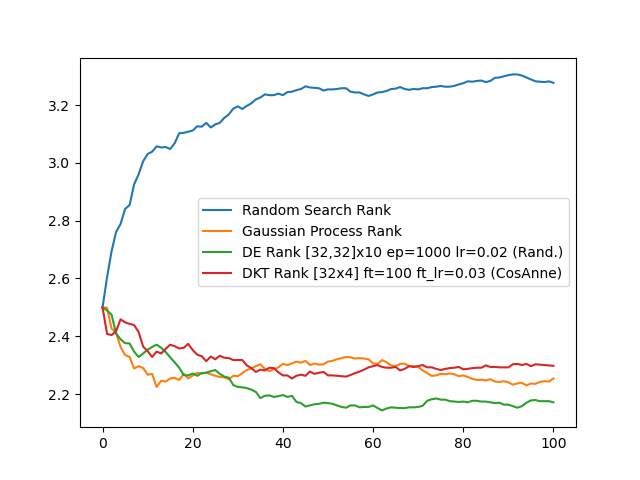
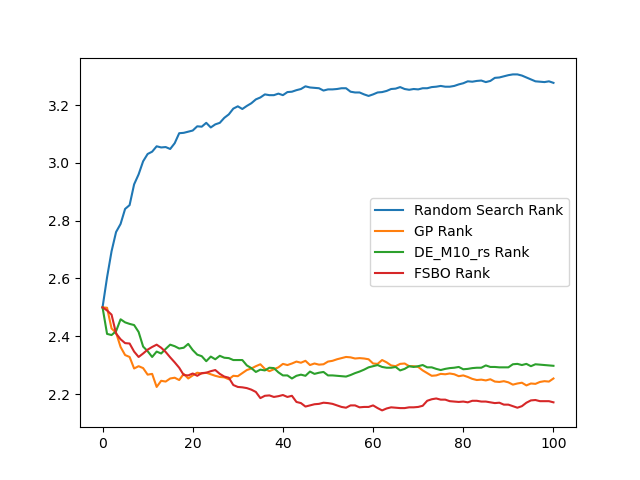
Completing section 5.1 with removal of grammatical mistakes.

diff --git a/report/report.tex b/report/report.tex
@@ -2380,13 +2380,22 @@ Finally, we also do restarts for the FSBO domain with the restart mechanism disc
     \label{fig:FSBOPerformance}
 \end{figure}
 
-We can see in Figure~\ref{fig:FSBOPerformance},  our implementation could not give us the state of the art results.
-Hence we used the FSBO results stored in the HPO-B benchmark instead for the comparison with the rest of the baselines.
+Figure~\ref{fig:FSBOPerformance} shows the rank graph of FSBO compared to the best performing models of random search, GP and DE surrogates.
+There is a slight difference in ranking graphs of previous surrogates because a few HPO optimizations were unsuccessful for the FSBO due to non-positive definite Matrix exceptions obtained during meta-training and fine-tuning (The GPytorch implementation threw this).
+As we can see,  our implementation could not give us state-of-the-art results for FSBO.
+Since these results are a correct yardstick to measure the ranking loss surrogate model, we used the results obtained by the FSBO implementation provided by Pineda et al. ~\cite{pineda2021hpob} in the rest of the thesis.
+
+
+Figure~\ref{fig:FSBOBestPerformance} compares the best performing FSBO surrogate against the performance of other baseline surrogates.
+As one can see from this figure, FSBO is an HPO model that outperforms the other HPO models both in the rank graph and the regret graph.
+Moreover,  FSBO always has a better rank at every evaluation step.
+This can be seen in the critical rank graphs illustrated in Figure~\ref{fig:FSBOBestPerformanceRank100}.
+Using these baseline results as a reference, we discuss how the ranking loss surrogate model compares to these methods in detail in the following sections.
 
 \begin{figure}[h]
   \centering
     \includegraphics[scale=0.25]{images/FSBOBestPerformance}
-    \caption{Graphs showing best performance of FSBO}
+    \caption{Rank and regret graph of best performing of FSBO.}
     \label{fig:FSBOBestPerformance}
 \end{figure}
 
@@ -2401,16 +2410,9 @@ Hence we used the FSBO results stored in the HPO-B benchmark instead for the com
 \end{minipage}\par
 \vskip\floatsep% normal separation between figures
 \includegraphics[width=0.45\textwidth]{images/FSBOBestPerformanceRank100}
-    \caption{Ranking of all baselines at various evaluation steps}
+    \caption{Critical rank graphs of baselines at different evaluation steps.}
    \label{fig:FSBOBestPerformanceRank100}
 \end{figure}
-
-From Figure~\ref{fig:FSBOBestPerformance} it is evident that FSBO as a model vastly outperforms the other models both in the rank graph and the regret graph.
-Moreover,  FSBO is always in a better rank at every evaluation step.
-This can be seen in Figure~\ref{fig:FSBOBestPerformanceRank100}.
-We use the DE with 10 neural network ensemble because it was giving best results for DE.
-With the performance of the baselines set,  we now move to discuss in detail how our model compares to these methods.
-
 
 \section{Ranking Loss model results: Research question results}
 
